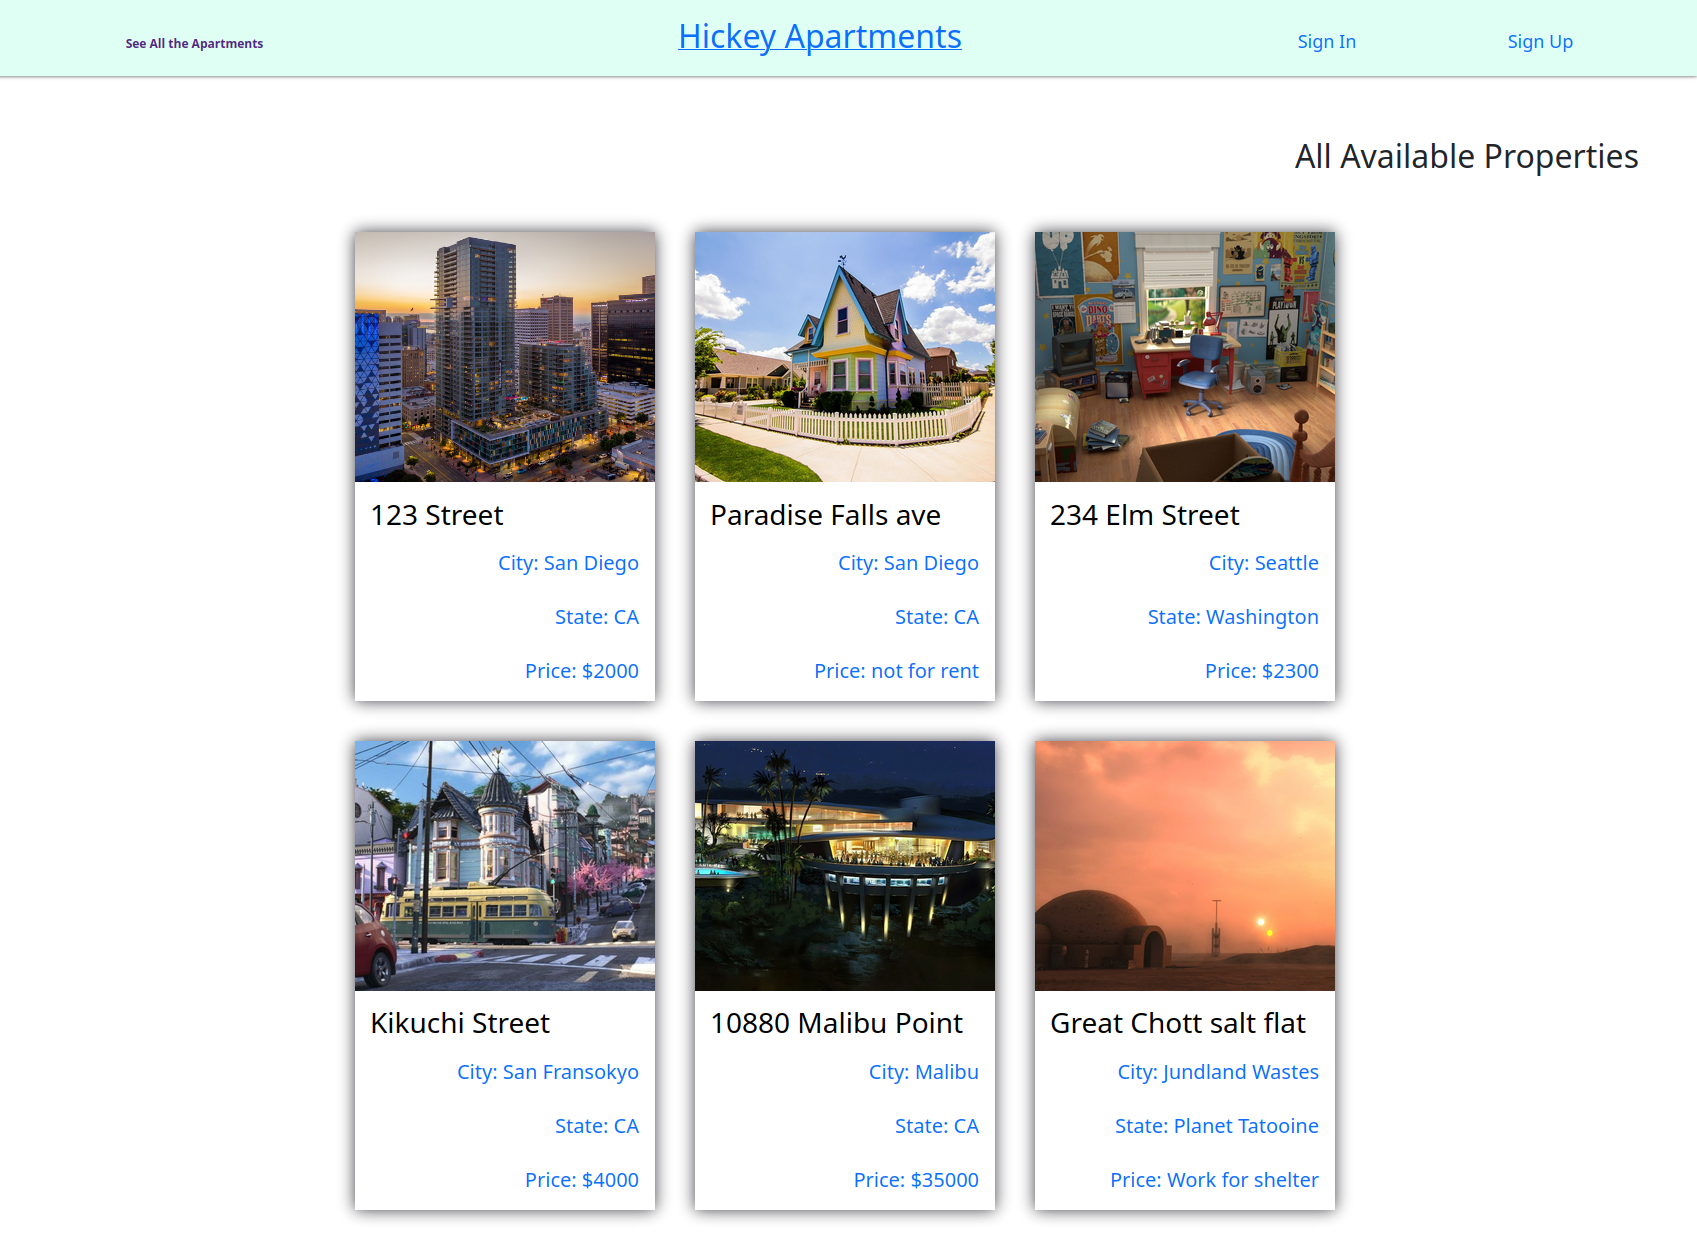
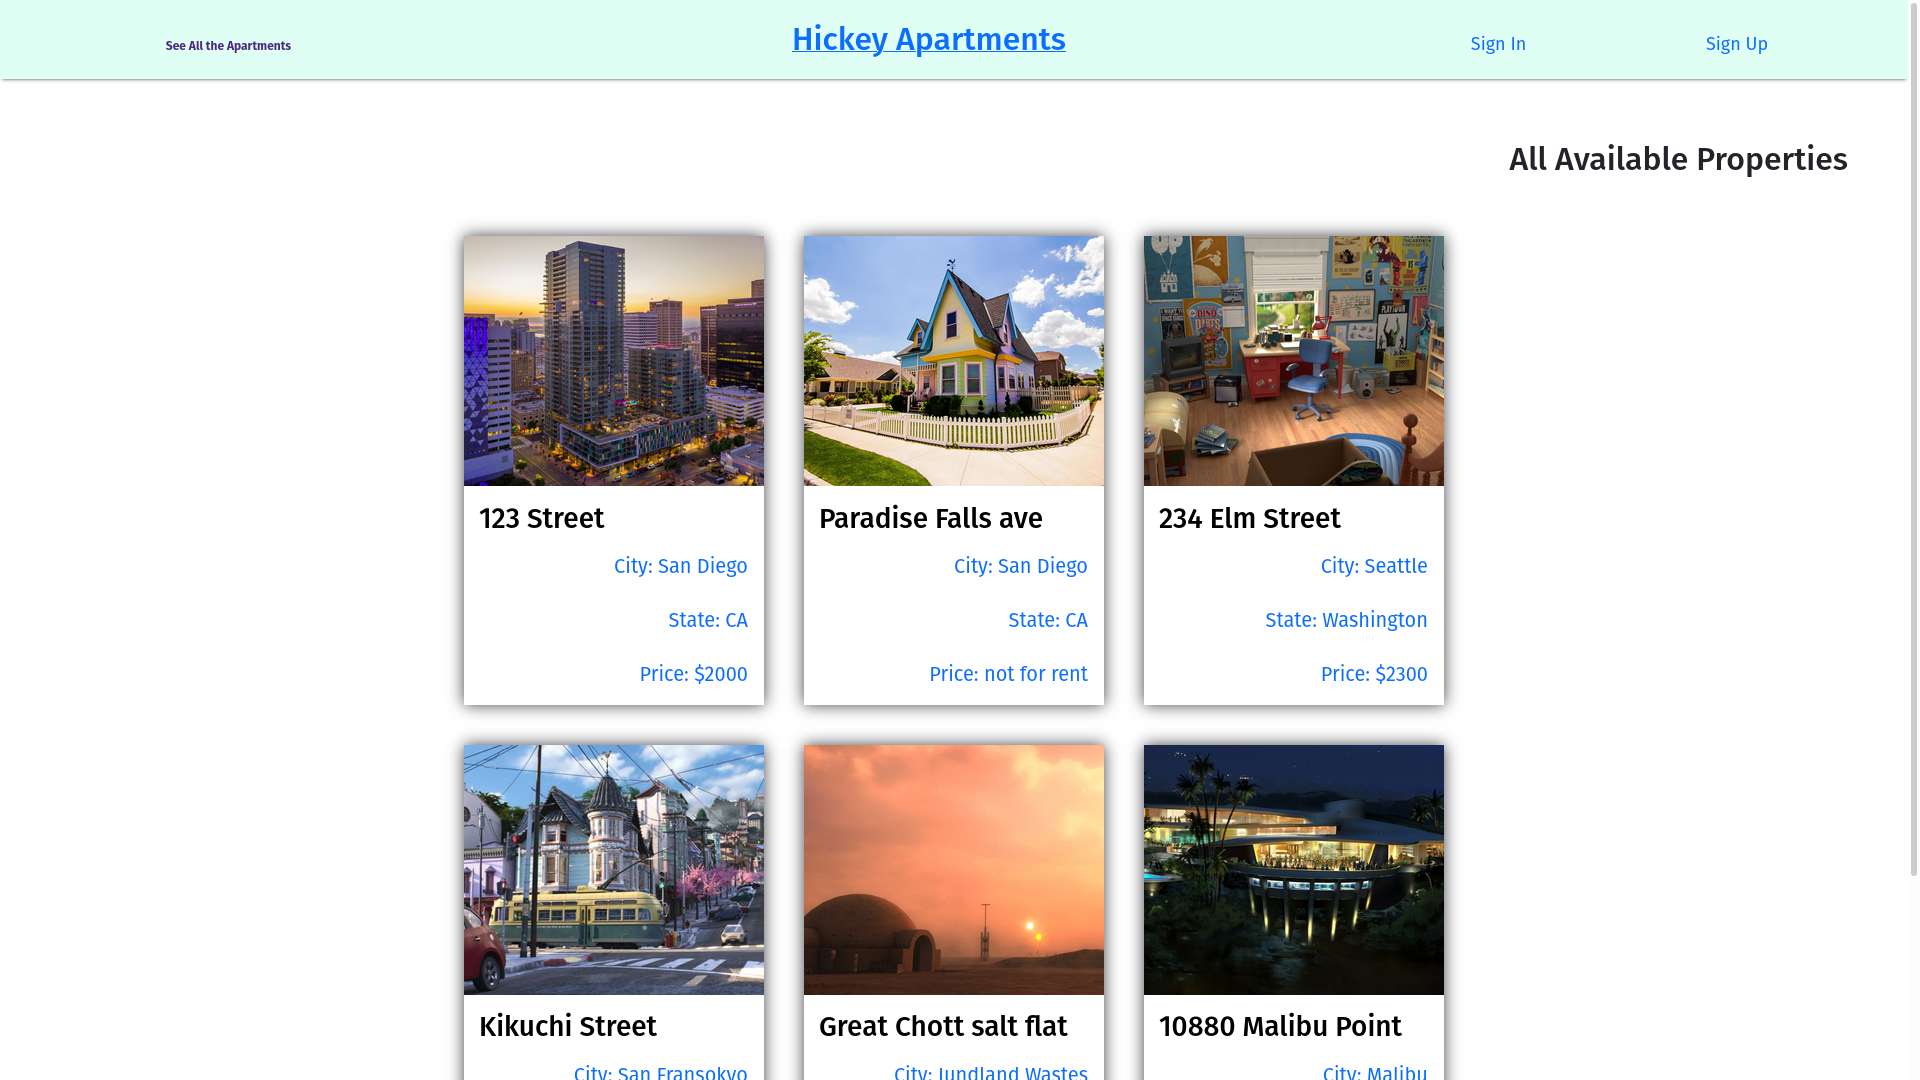
descriptions added to pages. My Work section fixed

diff --git a/index.html b/index.html
@@ -46,26 +46,11 @@
         <h2 class="section__title section__title--services">What I Do</h2>
         <div class="services">
             <div class="service">
-                <h3>Design and Development</h3>
-                <p>Lorem ipsum dolor sit amet consectetur, adipisicing elit. Dolorum tempore nemo aut nam omnis quas
-                    aspernatur, atque ipsa maxime perferendis rerum eum fugit totam mollitia veritatis ipsum molestias
-                    dolorem eos.</p>
+                <h3>Full-stack Development</h3>
+                <p>
+                    I live in both the front-end (client-side) and back-end (server-side) of development. Using tools like ReactJs and Ruby on Rails with PostgrSQL to create web pages and software applications. I am also proficient with debian based linux os as well as mac.
+                </p>
             </div>
-            <!--/ service-->
-            <div class="service">
-                <h3>Video Production</h3>
-                <p>Lorem ipsum dolor sit amet consectetur, adipisicing elit. Dolorum tempore nemo aut nam omnis quas
-                    aspernatur, atque ipsa maxime perferendis rerum eum fugit totam mollitia veritatis ipsum molestias
-                    dolorem eos.</p>
-            </div>
-            <!--/ service-->
-            <div class="service">
-                <h3>WordPress</h3>
-                <p>Lorem ipsum dolor sit amet consectetur, adipisicing elit. Dolorum tempore nemo aut nam omnis quas
-                    aspernatur, atque ipsa maxime perferendis rerum eum fugit totam mollitia veritatis ipsum molestias
-                    dolorem eos.</p>
-            </div>
-            <!--/ service-->
         </div>
         <!--services-->
         <a href="#work" class="btn">My Work</a>
@@ -78,12 +63,14 @@
         <p class="section__subtitle section__subtitle--about">Web Developer based out of San Diego</p>
 
         <div class="about-me__body">
-            <p>Lorem ipsum dolor, sit amet consectetur adipisicing elit. Numquam, sunt libero, unde reprehenderit, ab
-                maiores recusandae excepturi rem provident dolorem eligendi. Quidem quibusdam harum distinctio.
-                Necessitatibus debitis sapiente totam maiores!</p>
-            <p>Lorem ipsum dolor, sit amet consectetur adipisicing elit. Deserunt hic, maiores architecto ratione,
-                dolorem dolorum minima adipisci iure modi similique aspernatur neque, blanditiis sit expedita odio ex
-                sapiente consequatur. Perspiciatis.</p>
+            <p>
+                I enjoy team meetings, coffee, and coding. 
+
+                    My most recent adventure has lead me to LEARN Academy where I found myself in an intense coding boot camp. I was trained in Javascript, ReactJs, Ruby on Rails, and PostgrSQL to win the title of full-stack developer. The program spanned 480 hours and focused on individual, pair, and mob projects that quickly made us efficient with Git and Github. Not only was pseudo coding and organization a focus in the program, but testing via Jest and RSpec was required.
+            <p>My background is in digital marketing and video editing. Working for the Navy, I collaborated with all the major bases in the south west region. Providing marketing strategies and delivering video marketing projects. I was the sole media specialist. Taking projects from pre-production to post- production.
+                </p>
+                </p>
+            
         </div>
         <img src="siteimages\profileportrait.jpg" alt="" class="about-me__img">
     </section>
@@ -92,7 +79,6 @@
     <section class="my-work" id="work">
         <h2 class="section__title section__title--work">My Work</h2>
         <p class="section__subtitle section__subtitle--work">A seclection of my range of work</p>
-
         <div class="portfolio">
             <!-- Portfolio item 01 -->
             <a href="pig-latin.html" class="portfolio__item">

diff --git a/rapidpx.html b/rapidpx.html
@@ -40,24 +40,17 @@
 
     <section class="intro" id="home">
         <h1 class="section__title section__title--intro">
-            The Title <strong>RapidPx</strong>
+            <strong>RapidPx</strong>
         </h1>
-        <p class="section__subtitle section__subtitle--intro">A short subtitle</p>
+        <p class="section__subtitle section__subtitle--intro">Medication tracker</p>
         <img src="assets/rapidpx.png" alt="" class="intro__img">
 
     </section>
 
     <div class="portfolio-item-individual">
-        <p>Lorem ipsum dolor, sit amet consectetur adipisicing elit. Aut voluptatum magnam a fugiat, doloribus sit vitae
-            aliquam non asperiores blanditiis obcaecati distinctio aspernatur earum, harum facilis, minus vero
-            assumenda! Quam!</p>
         <img src="assets/rapidpxPatients.png" alt="">
-        <p>Lorem ipsum, dolor sit amet consectetur adipisicing elit. Reprehenderit in blanditiis officia, eius odio eos
-            molestiae reiciendis, sapiente harum tempora debitis sunt? Nisi repudiandae eveniet aliquam, explicabo dolor
-            nam dolores?</p>
-        <p>Lorem ipsum, dolor sit amet consectetur adipisicing elit. Officia aut officiis temporibus. Hic, labore eum
-            aliquam nam sequi aspernatur eaque. Corporis repudiandae totam repellat unde optio pariatur eius debitis
-            ullam.</p>
+        <p>Created with ReactJs, Ruby on Rails, and PostgrSQL.  </p>
+        <p>This capstone project was created by a team of 4. As project manager, it fell to me to assign responsibilites and manage time. I worked on both the front and back end of this project. On the back-end, I developed the conrollers and tested with Rspec. On the front-end, I worked primarily on the patient pages and supported the creation of the medication pages with modals </p>
 
     </div>
     <section>

diff --git a/apartment-app.html b/apartment-app.html
@@ -40,24 +40,17 @@
 
     <section class="intro" id="home">
         <h1 class="section__title section__title--intro">
-            The Title <strong>Apartment App</strong>
+            <strong>Apartment App</strong>
         </h1>
-        <p class="section__subtitle section__subtitle--intro">A short subtitle</p>
+        <p class="section__subtitle section__subtitle--intro">Property listing app</p>
         <img src="assets/Apt-app-show.png" alt="" class="intro__img">
 
     </section>
 
     <div class="portfolio-item-individual">
-        <p>Lorem ipsum dolor, sit amet consectetur adipisicing elit. Aut voluptatum magnam a fugiat, doloribus sit vitae
-            aliquam non asperiores blanditiis obcaecati distinctio aspernatur earum, harum facilis, minus vero
-            assumenda! Quam!</p>
         <img src="assets/apt-app-index2.png" alt="">
-        <p>Lorem ipsum, dolor sit amet consectetur adipisicing elit. Reprehenderit in blanditiis officia, eius odio eos
-            molestiae reiciendis, sapiente harum tempora debitis sunt? Nisi repudiandae eveniet aliquam, explicabo dolor
-            nam dolores?</p>
-        <p>Lorem ipsum, dolor sit amet consectetur adipisicing elit. Officia aut officiis temporibus. Hic, labore eum
-            aliquam nam sequi aspernatur eaque. Corporis repudiandae totam repellat unde optio pariatur eius debitis
-            ullam.</p>
+        <p>Created with ReactJs, Ruby on Rails, PostgresQL, and Devise</p> Create your own profile and add properties that you manage to the listing. You can view every property offered or just your listings in your own protected profile. Create, edit, and delete properties with ease.
+        <p></p>
 
     </div>
     <section>

diff --git a/pig-latin.html b/pig-latin.html
@@ -41,25 +41,17 @@
 
     <section class="intro" id="home">
         <h1 class="section__title section__title--intro">
-            The Title <strong>Of My Project</strong>
+             <strong>Pig Latin</strong>
         </h1>
-        <p class="section__subtitle section__subtitle--intro">A short subtitle</p>
+        <p class="section__subtitle section__subtitle--intro">Translator</p>
         <img src="assets/piglogo.png" alt="" class="intro__img">
 
     </section>
 
     <div class="portfolio-item-individual">
-        <p>Lorem ipsum dolor, sit amet consectetur adipisicing elit. Aut voluptatum magnam a fugiat, doloribus sit vitae
-            aliquam non asperiores blanditiis obcaecati distinctio aspernatur earum, harum facilis, minus vero
-            assumenda! Quam!</p>
         <img src="assets/pigfull.png" alt="">
-        <p>Lorem ipsum, dolor sit amet consectetur adipisicing elit. Reprehenderit in blanditiis officia, eius odio eos
-            molestiae reiciendis, sapiente harum tempora debitis sunt? Nisi repudiandae eveniet aliquam, explicabo dolor
-            nam dolores?</p>
-        <p>Lorem ipsum, dolor sit amet consectetur adipisicing elit. Officia aut officiis temporibus. Hic, labore eum
-            aliquam nam sequi aspernatur eaque. Corporis repudiandae totam repellat unde optio pariatur eius debitis
-            ullam.</p>
-
+        <p> Created with ReactJs</p>
+        <p>My Pig Latin translator follows every rule of Pig Latin for a complete translation. </p>
     </div>
     <section>
         <div class="portfolio-individual">

diff --git a/index.css b/index.css
@@ -377,25 +377,24 @@ header {
     columns: var(--clr-accent);
     font-weight: var(--fw-bold);
     text-align: center;
+    margin-bottom: 2em;
 }
 
 .portfolio {
     display: grid;
-    grid-template-columns: repeat(auto-fit, minmax(400px, 1fr));
-    margin-top: 20px;
+    grid-template-columns: repeat(auto-fit, minmax(300px, 1fr));
+    /* margin-top: 20px; */
 }
 
 .portfolio__item {
     background: var(--clr-accent);
-    overflow: hidden;
-}
+    overflow:hidden;
+} 
 
 .portfolio__img {
     transition:
      transform 750ms cubic-bezier(.5,0,.5,1),
     opacity 250ms linear;
-    max-height: 100%;
-    height: 345px;
     
     
 }
@@ -409,7 +408,7 @@ header {
 .portfolio__item:focus .portfolio__img {
     transform: scale(1.2);
     opacity: .75;
-}
+}   
 
 
 
